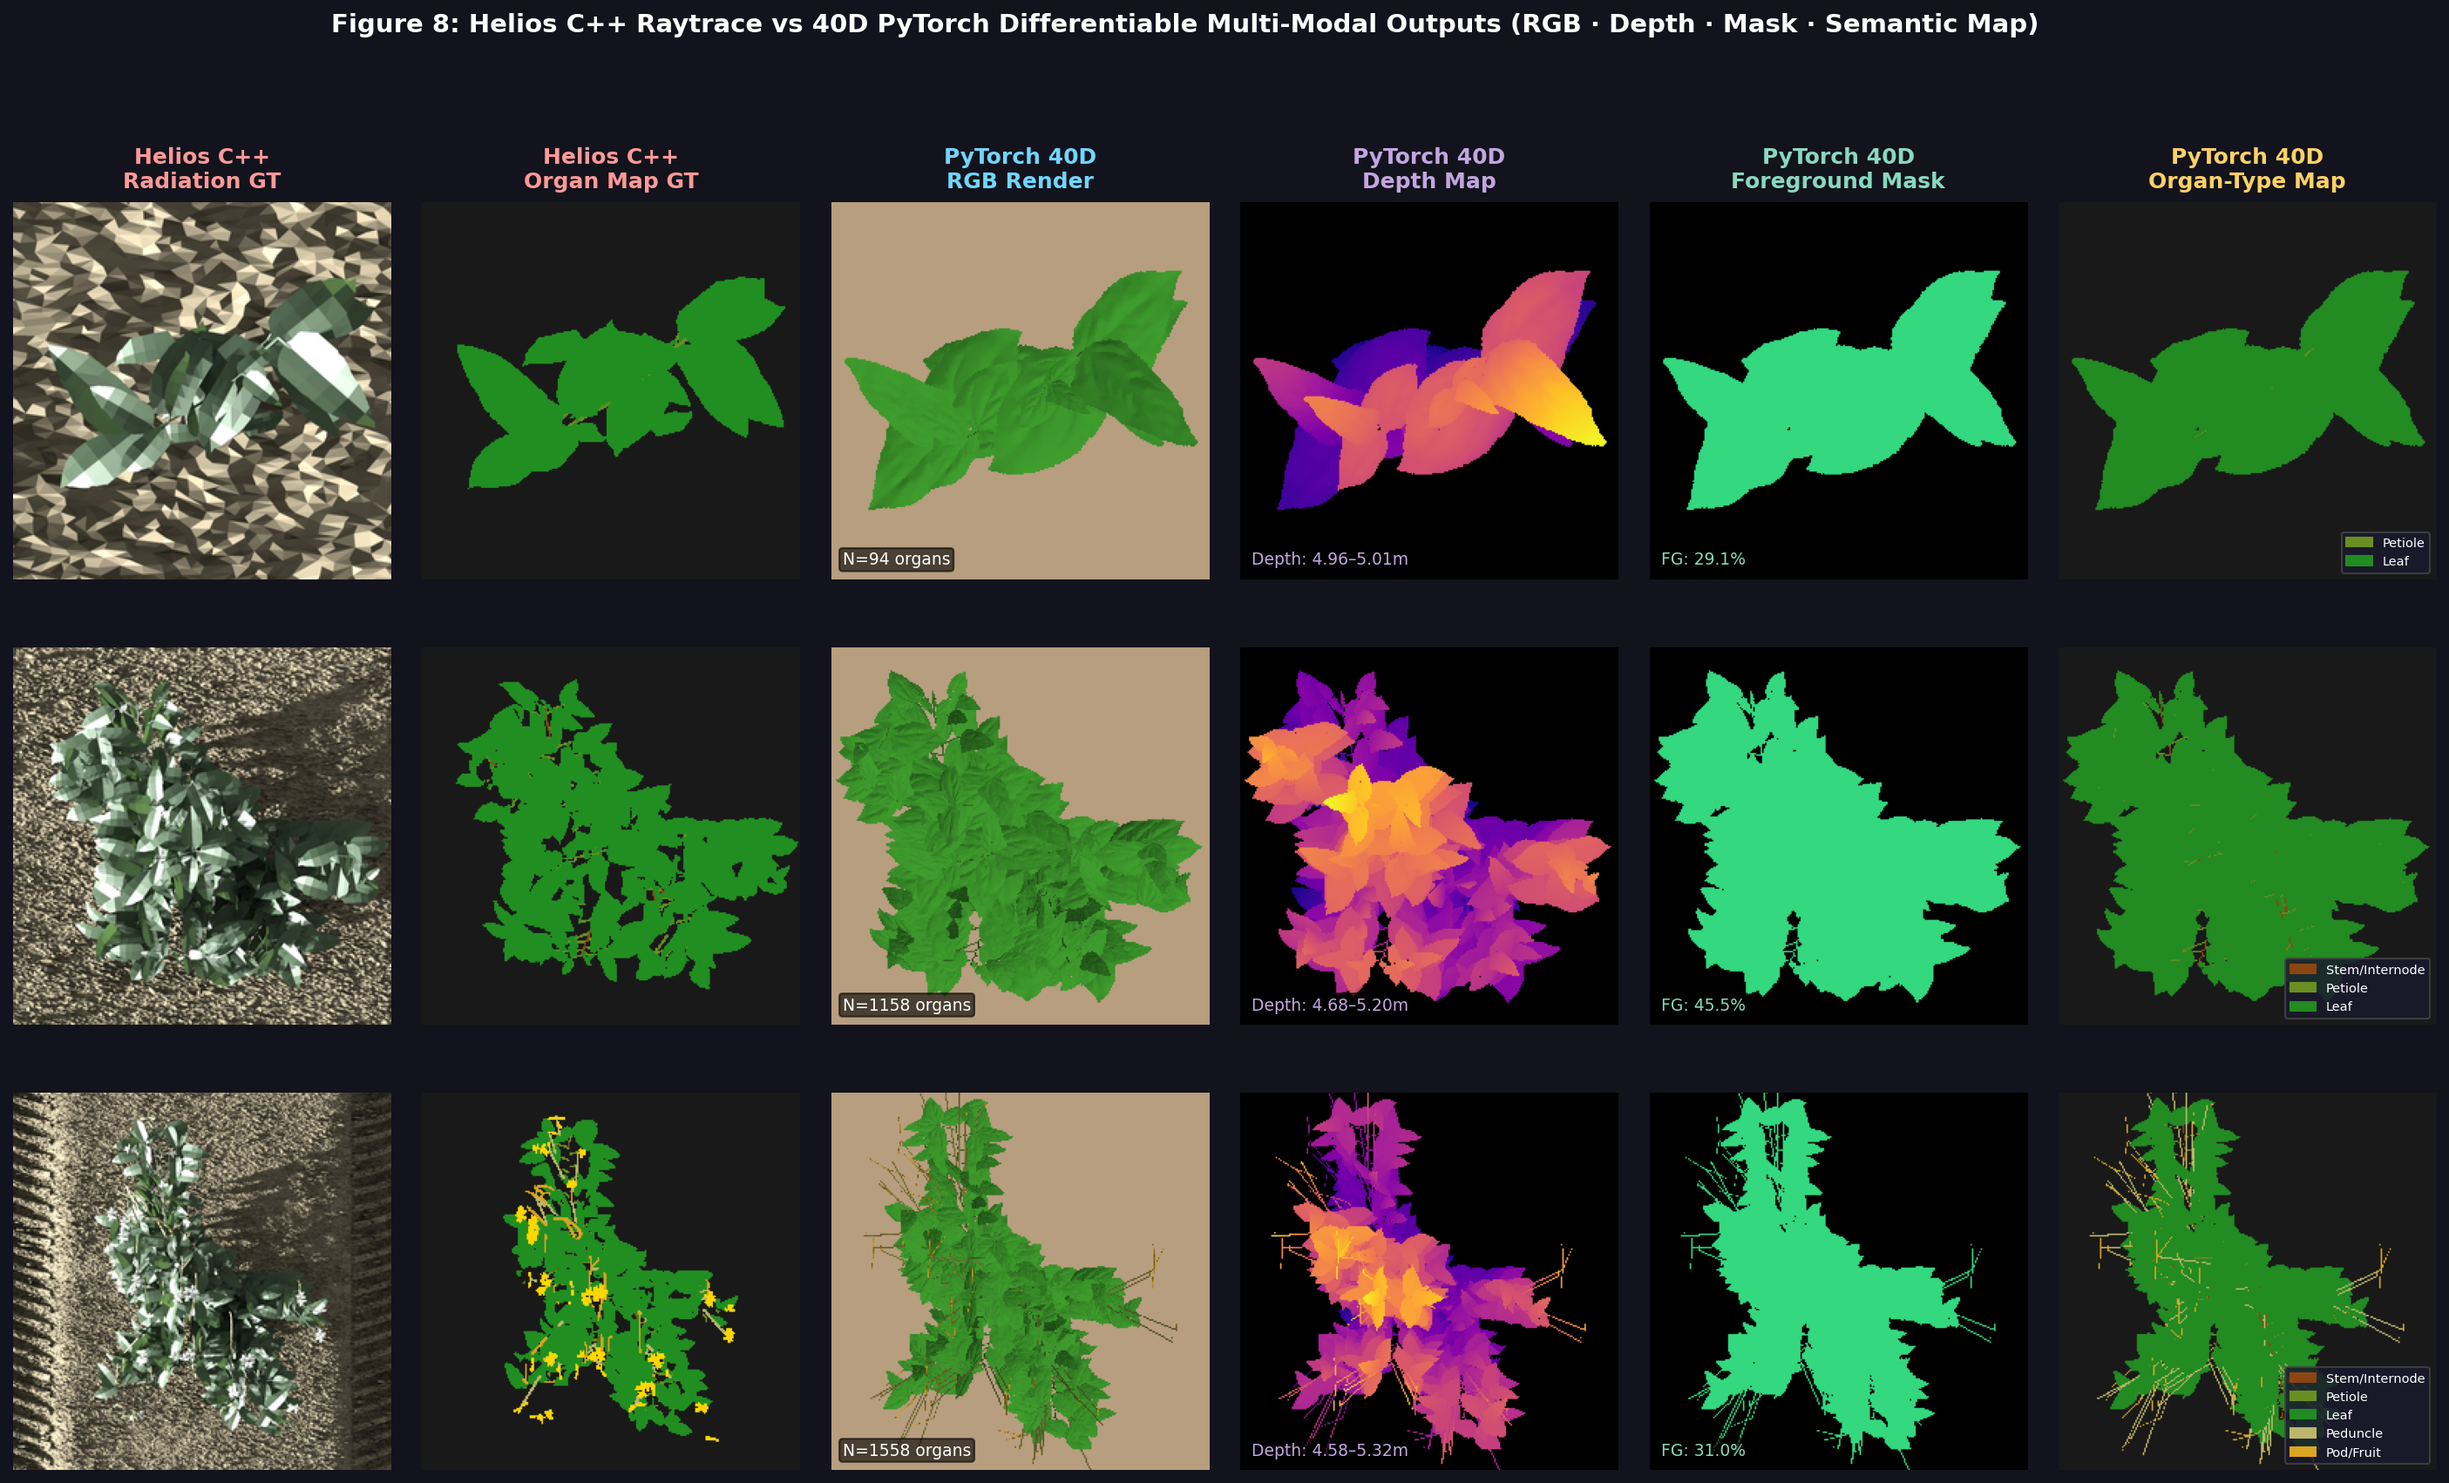
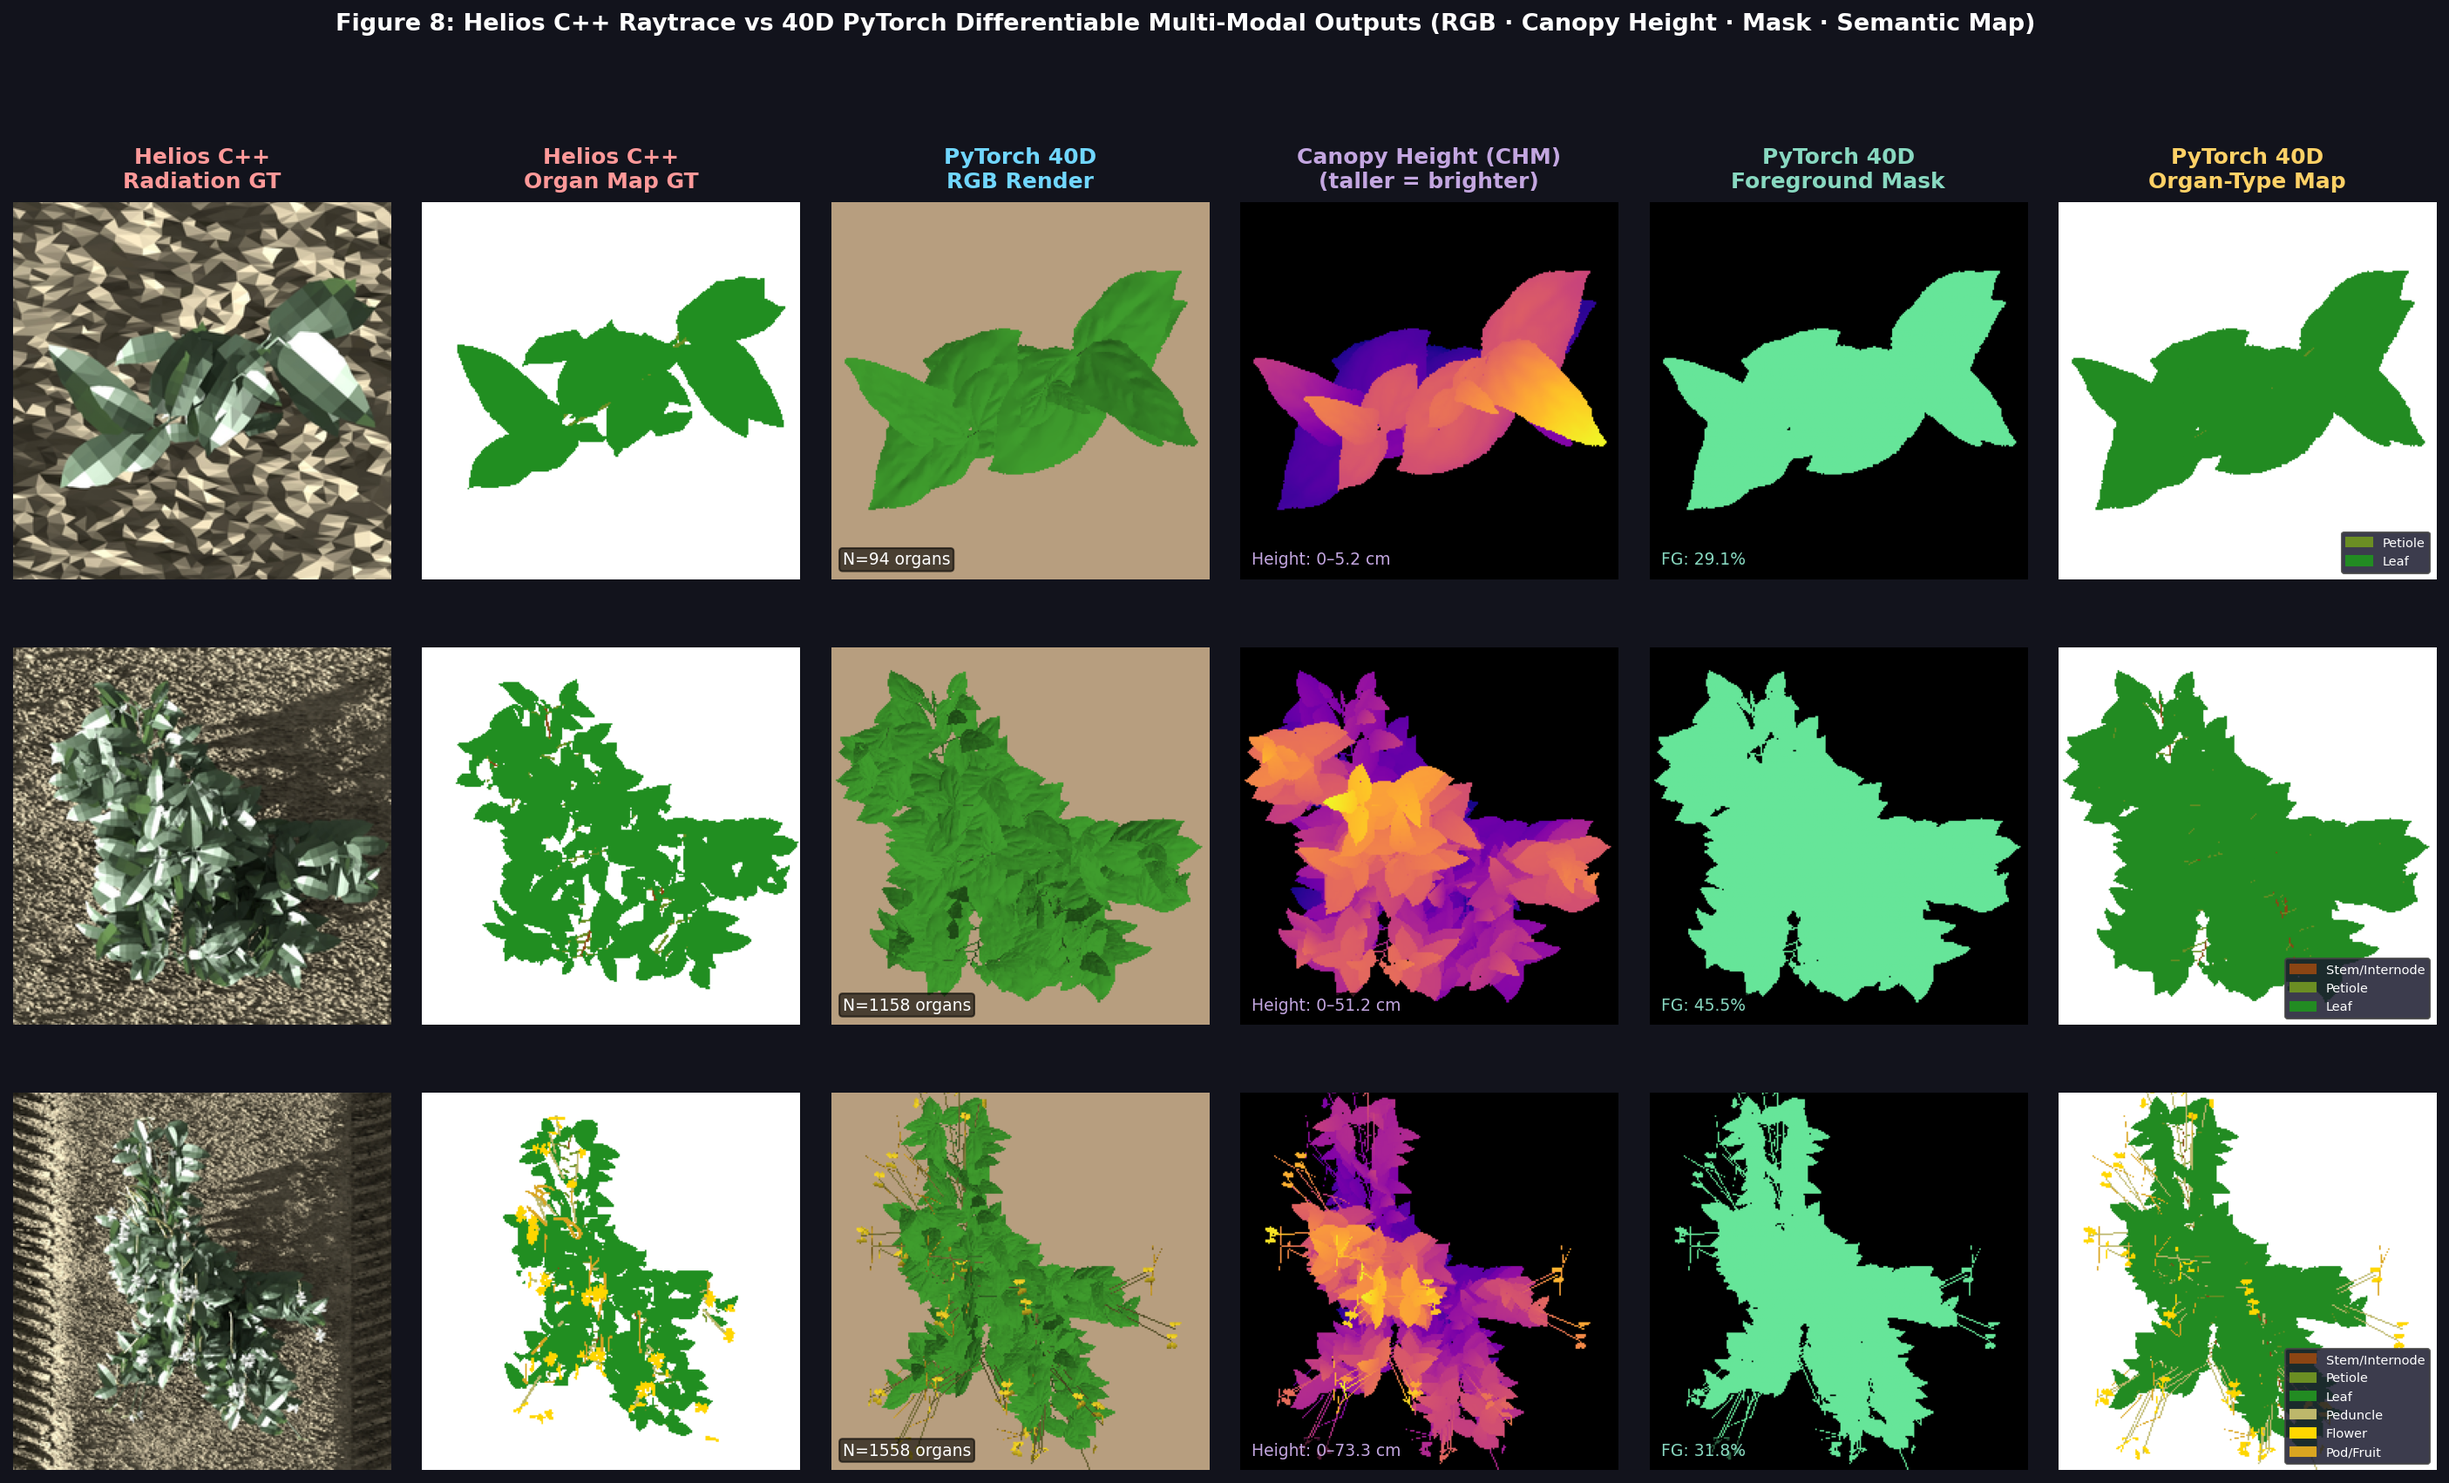
feat(eval): update Fig 8 with Canopy Height Model (CHM), white organ-type maps, and separate flower/pod categories

diff --git a/diffusion_based/eval/generate_multimodal_outputs.py b/diffusion_based/eval/generate_multimodal_outputs.py
@@ -73,17 +73,18 @@ renderer = HeliosPyTorchRenderer(image_size=IMG_SIZE).to(DEVICE)
 
 
 def depth_colormap(depth_tensor):
-    """Apply plasma colormap to depth map with normalized foreground contrast (closer = brighter)."""
+    """Apply plasma colormap to canopy height (taller/closer = brighter yellow)."""
     d = depth_tensor.detach().cpu().numpy()
     fg_mask = (d > 0.0)
     if not fg_mask.any():
-        return np.zeros((d.shape[0], d.shape[1], 3), dtype=np.float32)
+        return np.zeros((d.shape[0], d.shape[1], 3), dtype=np.float32), 0.0
 
     d_min = d[fg_mask].min()
     d_max = d[fg_mask].max()
+    canopy_h_cm = (d_max - d_min) * 100.0  # height in cm
+
     d_norm = np.zeros_like(d)
     if d_max > d_min:
-        # Normalize so that top/nearest leaves = 1.0 (bright yellow), lower leaves = 0.0 (dark purple)
         d_norm[fg_mask] = (d_max - d[fg_mask]) / (d_max - d_min)
     else:
         d_norm[fg_mask] = 1.0
@@ -91,11 +92,11 @@ def depth_colormap(depth_tensor):
     cmap = plt.get_cmap("plasma")
     rgb = cmap(d_norm)[:, :, :3].astype(np.float32)
     rgb[~fg_mask] = 0.0  # black background where no plant
-    return rgb
+    return rgb, canopy_h_cm
 
 
 def helios_organ_map(masks_path, H, W):
-    """Rasterize Helios COCO polygon masks into a single organ-type color image."""
+    """Rasterize Helios COCO polygon masks into a single organ-type color image with clean white background."""
     data = json.load(open(masks_path))
     src_w = int(data["images"][0].get("width", 720))
     src_h = int(data["images"][0].get("height", 720))
@@ -116,16 +117,16 @@ def helios_organ_map(masks_path, H, W):
             if len(pts) >= 3:
                 draw.polygon(pts, fill=1)
         cat_masks[cat] = np.maximum(cat_masks[cat], np.array(canvas))
-    rgb = np.ones((H, W, 3), dtype=np.float32) * 0.1  # dark background
+    rgb = np.ones((H, W, 3), dtype=np.float32)  # pure white background matching GT
     for cat_id, color in HELIOS_CAT_COLORS.items():
         rgb[cat_masks[cat_id] > 0] = color
     return rgb
 
 
 def organ_buffer_to_rgb(type_buf: torch.Tensor, H: int, W: int) -> np.ndarray:
-    """Map organ type buffer (-1=bg, 0=stem, 1=petiole, 2=leaf, ...) to color image."""
+    """Map organ type buffer (-1=bg, 0=stem, 1=petiole, 2=leaf, ...) to color image with clean white background."""
     buf_np = type_buf.detach().cpu().numpy()
-    rgb = np.ones((H, W, 3), dtype=np.float32) * 0.1  # dark background
+    rgb = np.ones((H, W, 3), dtype=np.float32)  # pure white background
     for ot_id, (hex_col, _) in ORGAN_META.items():
         r = int(hex_col[1:3], 16) / 255.0
         g = int(hex_col[3:5], 16) / 255.0
@@ -153,7 +154,7 @@ col_titles = [
     "Helios C++\nRadiation GT",
     "Helios C++\nOrgan Map GT",
     "PyTorch 40D\nRGB Render",
-    "PyTorch 40D\nDepth Map",
+    "Canopy Height (CHM)\n(taller = brighter)",
     "PyTorch 40D\nForeground Mask",
     "PyTorch 40D\nOrgan-Type Map"
 ]
@@ -249,14 +250,11 @@ for row, (label, xml_path, helios_path, helios_masks_path, helios_cam_path) in e
 
     H, W = IMG_SIZE, IMG_SIZE
     rgb_np = rgb_t.permute(1, 2, 0).detach().cpu().clamp(0, 1).numpy()
-    depth_np = depth_colormap(depth_t)
+    depth_np, canopy_h_cm = depth_colormap(depth_t)
     mask_np = (type_t >= 0).detach().cpu().numpy()
     organ_np = organ_buffer_to_rgb(type_t, H, W)
 
     fg_pct = 100.0 * mask_np.sum() / (H * W)
-    depth_raw = depth_t.detach().cpu().numpy()
-    d_min = float(depth_raw[depth_raw > 0].min()) if (depth_raw > 0).any() else 0
-    d_max = float(depth_raw.max())
 
     # --- Col 2: RGB ---
     ax = ax_row[2]
@@ -267,18 +265,18 @@ for row, (label, xml_path, helios_path, helios_masks_path, helios_cam_path) in e
             fontsize=9, color='white', va='bottom',
             bbox=dict(boxstyle='round,pad=0.2', facecolor='black', alpha=0.6))
 
-    # --- Col 3: Depth ---
+    # --- Col 3: Depth / Canopy Height Model ---
     ax = ax_row[3]
     ax.imshow(depth_np)
     ax.set_facecolor("#0d0d1a")
     ax.axis("off")
-    ax.text(0.03, 0.03, f"Depth: {d_min:.2f}–{d_max:.2f}m", transform=ax.transAxes,
+    ax.text(0.03, 0.03, f"Height: 0–{canopy_h_cm:.1f} cm", transform=ax.transAxes,
             fontsize=9, color='#c3a6e0', va='bottom',
             bbox=dict(boxstyle='round,pad=0.2', facecolor='black', alpha=0.6))
 
     # --- Col 4: Foreground Mask ---
     ax = ax_row[4]
-    mask_display = np.stack([mask_np * 0.2, mask_np * 0.85, mask_np * 0.5], axis=-1)
+    mask_display = np.stack([mask_np * 0.4, mask_np * 0.9, mask_np * 0.6], axis=-1)
     ax.imshow(mask_display)
     ax.set_facecolor("#0d0d1a")
     ax.axis("off")
@@ -299,15 +297,15 @@ for row, (label, xml_path, helios_path, helios_masks_path, helios_cam_path) in e
         meta = ORGAN_META.get(int(ot), ("#AAAAAA", f"Type {ot}"))
         patches.append(mpatches.Patch(color=meta[0], label=meta[1]))
     if patches:
-        leg = ax.legend(handles=patches, loc='lower right',
-                        fontsize=7, framealpha=0.85,
-                        facecolor='#1a1a2e', labelcolor='white',
-                        edgecolor='#444', ncol=1)
+        ax.legend(handles=patches, loc='lower right',
+                  fontsize=7, framealpha=0.85,
+                  facecolor='#1a1a2e', labelcolor='white',
+                  edgecolor='#444', ncol=1)
 
 # Overall title
 fig.suptitle(
-    "Figure 8: Helios C++ Raytrace vs 40D PyTorch Differentiable Multi-Modal Outputs (RGB · Depth · Mask · Semantic Map)",
-    fontsize=14, fontweight='bold', color='white', y=0.995
+    "Figure 8: Helios C++ Raytrace vs 40D PyTorch Differentiable Multi-Modal Outputs (RGB · Canopy Height · Mask · Semantic Map)",
+    fontsize=13, fontweight='bold', color='white', y=0.995
 )
 
 out_path = os.path.join(ASSETS_DIR, "fig8_multimodal_depth_mask.png")

diff --git a/diffusion_based/models/helios_pytorch_geometry.py b/diffusion_based/models/helios_pytorch_geometry.py
@@ -1050,7 +1050,7 @@ class HeliosPlantGeometryBuilder:
                         tot_fl_scale = fl_scale * node_exist
 
                         # Determine if Pod or Flower
-                        is_pod = (bud_state == 4 or fruit_scale > 0.0)
+                        is_pod = (bud_state == 4)
                         if is_pod:
                             obj_name = "BeanPod.obj" if is_bean else "CowpeaPod.obj"
                             col_mesh = self.COLOR_POD.to(device)
